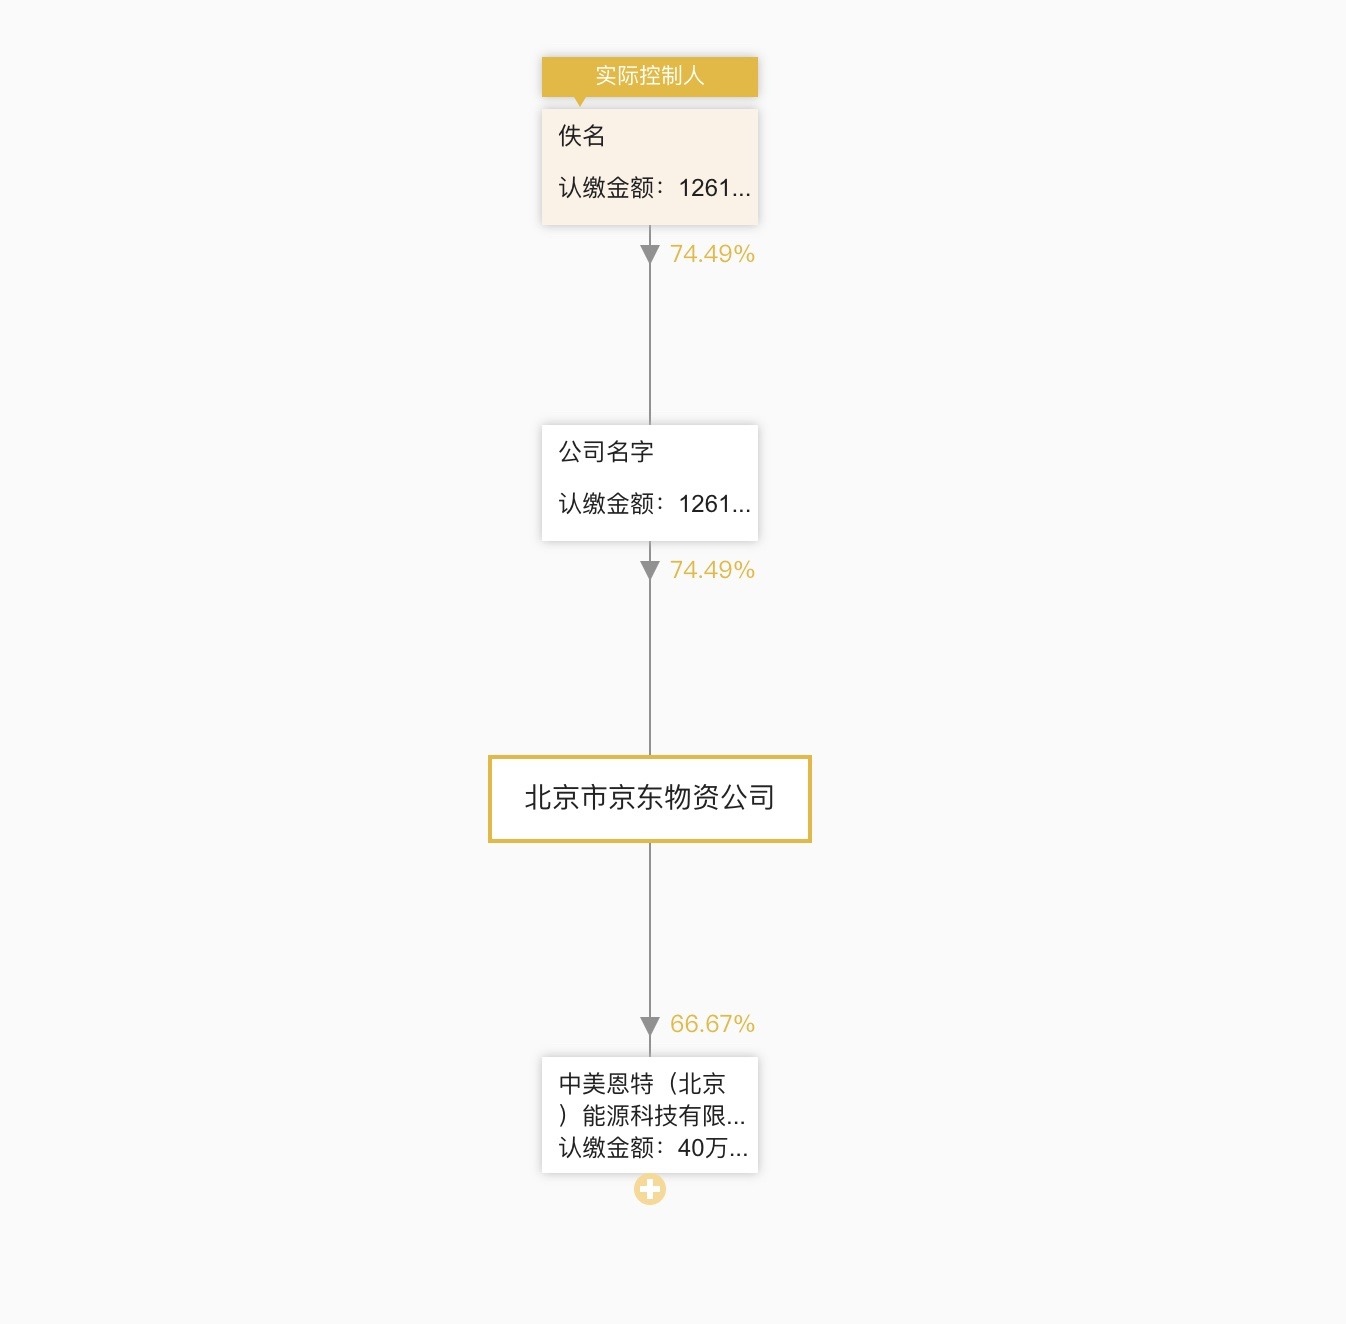
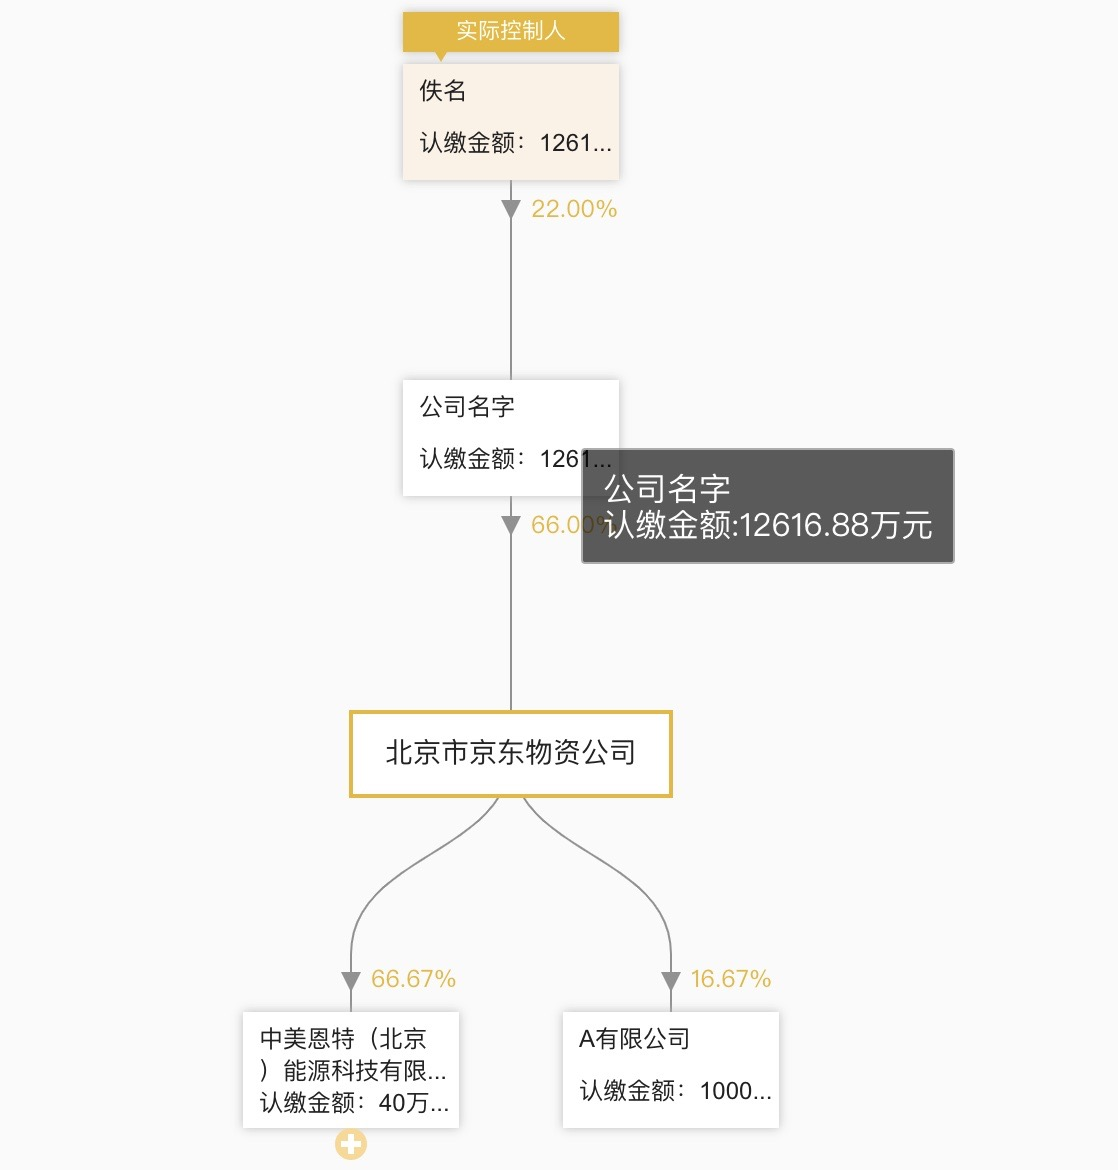
update readme

diff --git a/src/views/Tree.vue b/src/views/Tree.vue
@@ -21,14 +21,14 @@ export default {
           {
             subConAmt: "12616.88万元",
             category: "1", // 1 是公司，2是个人
-            fundedRatio: "74.49%",
+            fundedRatio: "66.00%",
             name: "公司名字", // 公司名称（使用name属性作为树状图节点的id，该属性需要唯一）
             isAbsoluteController: "False", // 实际控制人：yes - 'True', no - 'False'
             children: [
               {
                 subConAmt: "12616.88万元",
                 category: "2",
-                fundedRatio: "74.49%",
+                fundedRatio: "22.00%",
                 name: "佚名",
                 isAbsoluteController: "True"
               }
@@ -39,20 +39,24 @@ export default {
           {
             shouldCapi: "40万元", // 认缴金额
             name: "中美恩特（北京）能源科技有限公司",
-            capitalType: "货币",
-            stockPercent: "66.67%",
             totalStockPercent: "66.67%",
             type: 2,
             children: [
               {
                 shouldCapi: "300万元",
                 name: "北京农村商业银行股份有限公司",
-                stockPercent: "-",
                 totalStockPercent: "66.67%",
                 type: 2,
                 children: null
               }
             ]
+          },
+          {
+            shouldCapi: "1000万元", // 认缴金额
+            name: "A有限公司",
+            totalStockPercent: "16.67%",
+            type: 2,
+            children: null
           }
         ]
       }

diff --git a/README.md b/README.md
@@ -5,7 +5,7 @@
 ## 目录
 
 1. 关系图
-   ![关系图是这样](./public/images/force.jpg)
+   ![关系图长这样](./public/images/force.jpg)
 2. 树状图（样式和数据结构参照天眼查）
    ![树状图长这样](./public/images/tree.jpg)
 
